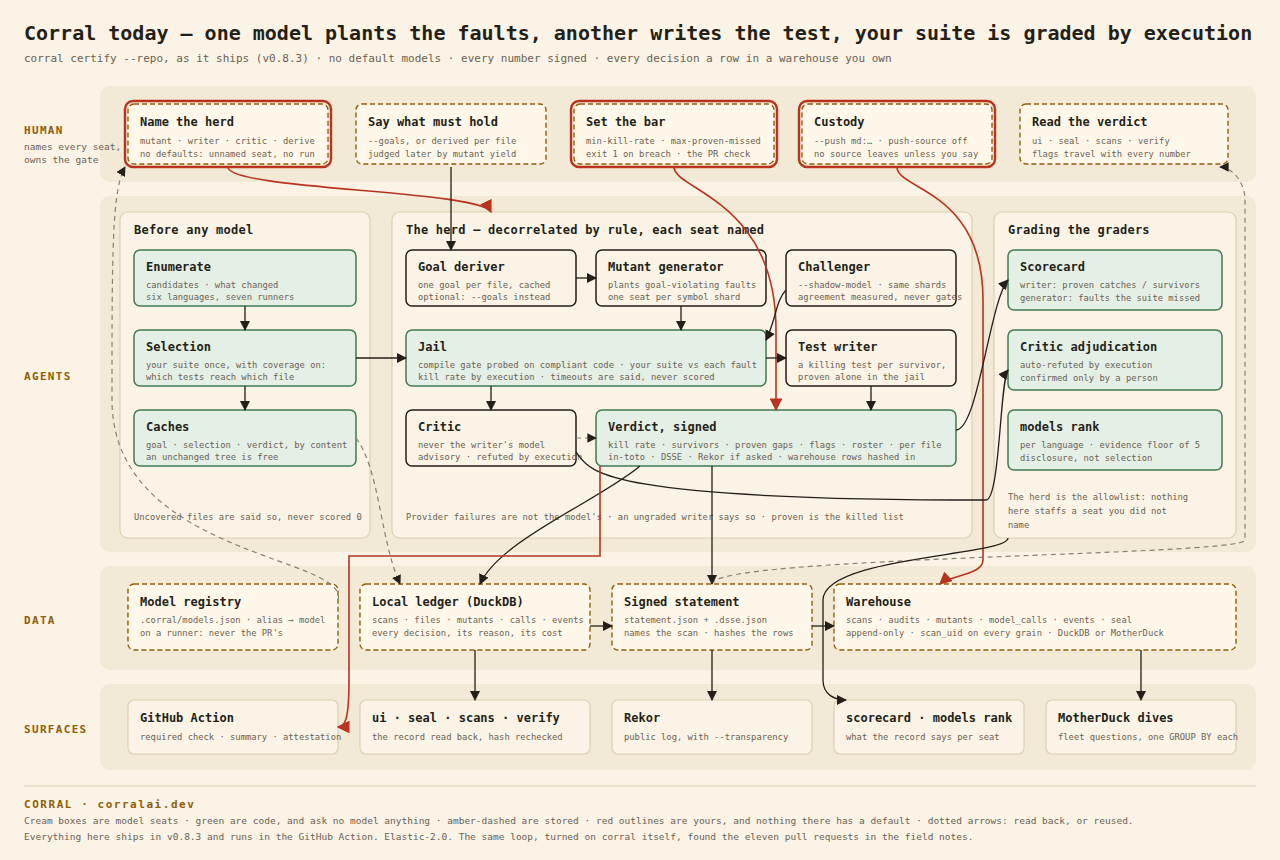
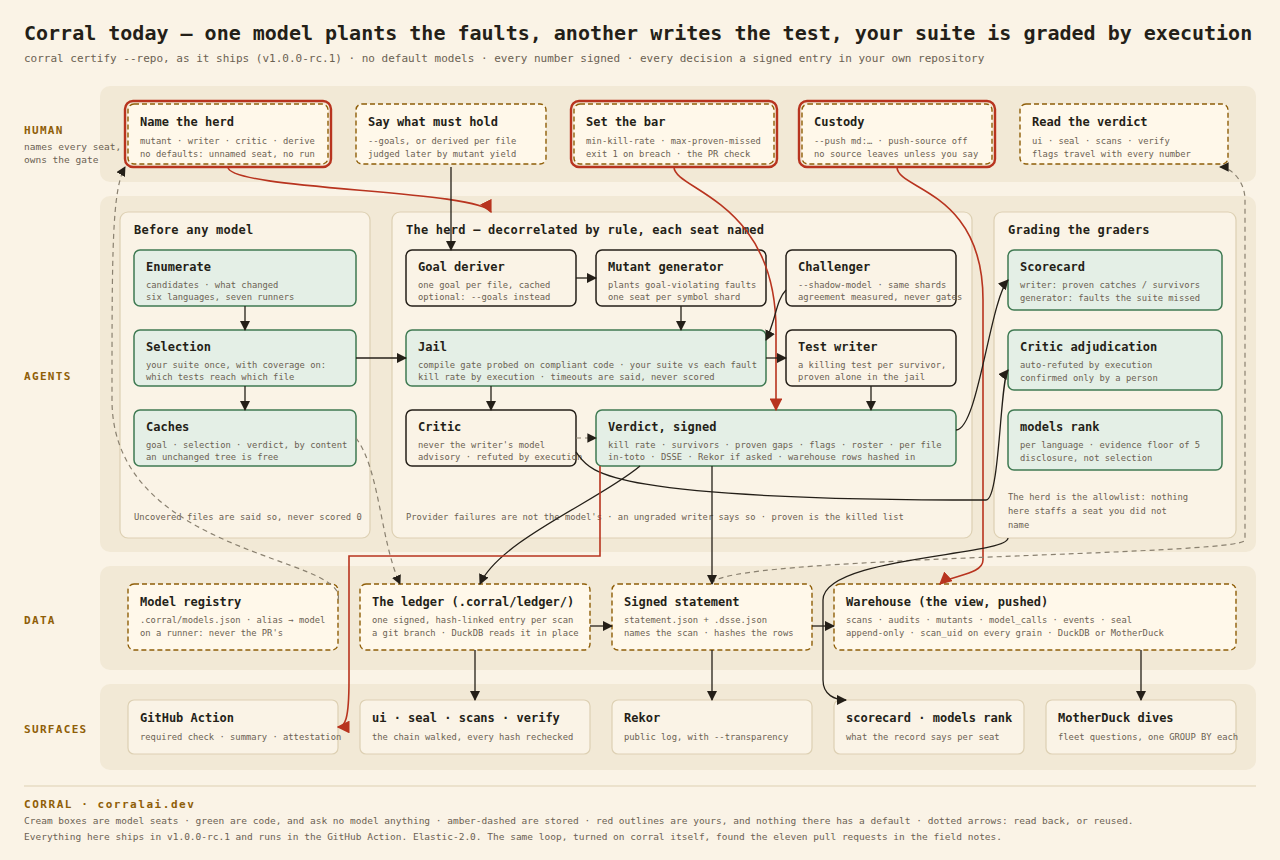
docs: pin v1.0.0-rc.1; the chart's data lane is the ledger (#261)
* docs: pin v1.0.0-rc.1; the chart's data lane is the ledger

Every action pin (README, ROADMAP, docs/corral, the site's github-action
page and CiGate snippet) moves to v1.0.0-rc.1. docs/design/corral-today
now says the record is the ledger directory — one signed, hash-linked entry
per scan, a git branch, DuckDB reading it in place — and the warehouse is
the view, pushed; PNG re-rendered (headless Chrome, the same output as the
committed render).

Claude-Session: https://claude.ai/code/session_019WGMcPXm42zsFf6nqfbH1A

* docs: install the release candidate by tag — @latest resolves to 0.8.x

A version with a pre-release suffix is never Go's @latest, so the four
install lines that said @latest would have handed a reader v0.8.3 while
the announcement names v1.0.0-rc.1. Said in the README's own comment.

Claude-Session: https://claude.ai/code/session_019WGMcPXm42zsFf6nqfbH1A

---------

diff --git a/docs/corral/github-action.md b/docs/corral/github-action.md
@@ -164,7 +164,7 @@ slow"`), not a shell one-liner that chains multiple commands.
 
 **There is no `v1` tag, but there are pinnable release tags.** `v0.1.0` and
 `v0.2.0` predate the action and carry no `action.yml`; **`v0.3.0` and later do**
-(`v0.8.3` is current). Prefer `pdbethke/corralai@v0.8.3` over `@main` — pinning
+(`v1.0.0-rc.1` is current). Prefer `pdbethke/corralai@v1.0.0-rc.1` over `@main` — pinning
 a tag means a push to `main` cannot change what runs in your CI. Pin the commit
 SHA you reviewed (`pdbethke/corralai@<sha>`) if you want an immutable reference
 that a re-tag also cannot move. `@main` still works and tracks the newest
@@ -526,7 +526,7 @@ over both, not the store.
             git worktree add --detach .corral-ledger
             (cd .corral-ledger && git checkout --orphan corral/ledger && git rm -rfq . && echo "corral's record — see docs/corral/github-action.md" > README.md)
           fi
-      - uses: pdbethke/corralai@v0.8.3
+      - uses: pdbethke/corralai@v1.0.0-rc.1
         with:
           test-command: pytest -q
           ledger: .corral-ledger
@@ -751,7 +751,7 @@ of every existing caller of this action.
 Set `min-kill-rate` (a number from `0.0` to `1.0`) to give the gate teeth:
 
 ```yaml
-- uses: pdbethke/corralai@v0.8.3
+- uses: pdbethke/corralai@v1.0.0-rc.1
   with:
     test-command:  "go test ./..."
     gemini-key:    ${{ secrets.GEMINI_API_KEY }}

diff --git a/README.md b/README.md
@@ -21,7 +21,7 @@ package with a five-clause password rule and a test that checks only two of
 them, then audits it with the real `certify --local`:
 
 ```bash
-go install github.com/pdbethke/corralai/cmd/corral@latest
+go install github.com/pdbethke/corralai/cmd/corral@v1.0.0-rc.1   # @latest still resolves to 0.8.x: a release candidate is a pre-release to Go
 export ANTHROPIC_API_KEY=sk-ant-...     # or OPENAI_/GEMINI_/OPENROUTER_API_KEY
 
 corral demo --writer-model <model> --mutant-model <model> --critic-model <model>
@@ -486,7 +486,7 @@ those seats work in and the **fences** are the security boundaries.
 
 ## In CI — the GitHub Action
 
-**No brain, no server — the GitHub Action.** `pdbethke/corralai@v0.8.3` (pin the
+**No brain, no server — the GitHub Action.** `pdbethke/corralai@v1.0.0-rc.1` (pin the
 tag, or a reviewed SHA — `@main` floats) runs `corral
 certify --repo` straight in your own CI job, on the checkout that's already
 there: no jail, no brain, no separate infra. It mutates the runner's checkout

diff --git a/ROADMAP.md b/ROADMAP.md
@@ -164,7 +164,7 @@ Go binary.**
   a whole-repo scan of this repo's 205 candidates would be roughly 37 hours, which
   is why `top` exists.
 
-  `action.yml` wraps this as `pdbethke/corralai@main` (tags are cut — `@v0.8.3` is current; pin a commit SHA for immutability against a re-tag); it installs `corral` itself via
+  `action.yml` wraps this as `pdbethke/corralai@main` (tags are cut — `@v1.0.0-rc.1` is current; pin a commit SHA for immutability against a re-tag); it installs `corral` itself via
   `go install`, using whatever Go toolchain the runner already has (never
   `actions/setup-go`, which would swap out the toolchain the audited project's own
   tests run under). Check out with `fetch-depth: 0` (required — the diff needs the merge

diff --git a/docs/corral/actions-as-swarm.md b/docs/corral/actions-as-swarm.md
@@ -33,7 +33,7 @@ jobs:
       - uses: actions/checkout@v4
         with:
           fetch-depth: 0      # required — see github-action.md's "fetch-depth: 0 is required"
-      - uses: pdbethke/corralai@v0.8.3
+      - uses: pdbethke/corralai@v1.0.0-rc.1
         with:
           test-command: "python -m pytest -q"
           # diff-base left empty: on a pull_request event the action already
@@ -80,7 +80,7 @@ acceptable on a recurring basis) with an empty `diff-base` and a `top` bound
 covers the rest:
 
 ```yaml
-  - uses: pdbethke/corralai@v0.8.3
+  - uses: pdbethke/corralai@v1.0.0-rc.1
     with:
       test-command: "python -m pytest -q"
       diff-base: ""        # whole-repo scope — see "why scoped by default"
